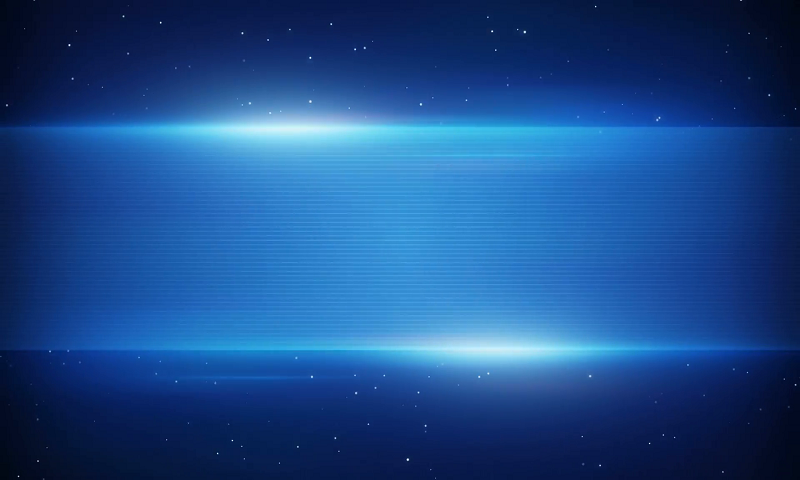
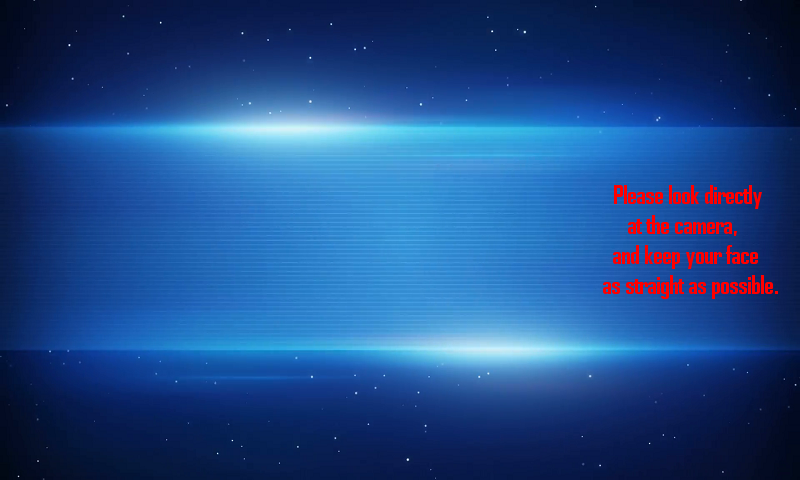
Added Dispense Screen - And done some QQQQQQQQQQUIIIIIIIIIIICKKKKKK FIXs

Changed region(s): [[0.75, 0.375, 0.9688, 0.625]]

diff --git a/rational_gui/verificationScreen.py b/rational_gui/verificationScreen.py
@@ -17,7 +17,7 @@ class VerificationScreen(Page):
         self.grid()
 
         verificationBg = tk.PhotoImage(file=get_imagepath("verificationBg"))
-        face_outline = tk.PhotoImage(file=get_imagepath("positionFace"))
+        face_outline = tk.PhotoImage(file=get_imagepath("examplePosition"))
         placeholder = tk.PhotoImage(file=get_imagepath("placeholder"))
         instructions = tk.PhotoImage(file=get_imagepath("plspositionboi"))
         
@@ -31,7 +31,7 @@ class VerificationScreen(Page):
         #face guidance image
         place_face_here = tk.Label(self, image=face_outline, borderwidth=0)
         place_face_here.image = face_outline
-        place_face_here.place(x=10, y=170)
+        place_face_here.place(x=20, y=200)
 
         #picam placeholder image
         placeholder_lbl = tk.Label(self, image=placeholder, borderwidth=0)
@@ -39,9 +39,9 @@ class VerificationScreen(Page):
         placeholder_lbl.place(x=304, y=170)
 
         #instructions image
-        instructions_lbl = tk.Label(self, image=instructions, borderwidth=0)
-        instructions_lbl.image = instructions
-        instructions_lbl.place(x=510, y=200)
+        #instructions_lbl = tk.Label(self, image=instructions, borderwidth=0)
+        #instructions_lbl.image = instructions
+        #instructions_lbl.place(x=510, y=200)
 
         #take photo image
         try:

diff --git a/test_gui.py b/test_gui.py
@@ -1,13 +1,14 @@
 '''A temporary file for testing the gui(since package relative paths are dodge)'''
 import tkinter as tk
 
-from rational_gui import verificationScreen, hudScreen, lockedScreen, fingerprintScreen, refillScreen, adminScreen
+from rational_gui import verificationScreen, hudScreen, lockedScreen, fingerprintScreen, refillScreen, adminScreen, dispenseScreen
 from rational_gui.controller import CONTROLLER
 
 CONTROLLER.add_page(verificationScreen.VerificationScreen)
 CONTROLLER.add_page(hudScreen.HudScreen)
 CONTROLLER.add_page(lockedScreen.LockedScreen)
 CONTROLLER.add_page(refillScreen.RefillScreen)
+CONTROLLER.add_page(dispenseScreen.DispenseScreen)
 try:
     CONTROLLER.add_page(fingerprintScreen.FingerprintScreen)
     CONTROLLER.add_page(adminScreen.AdminScreen)

diff --git a/rational_gui/dispenseScreen.py b/rational_gui/dispenseScreen.py
@@ -1,0 +1,27 @@
+import tkinter as tk
+
+from rational_gui.controller import CONTROLLER
+from rational_gui.images import get_imagepath
+from rational_gui.page import Page
+
+#dispense screen class
+class DispenseScreen(Page):
+    def __init__(self, parent):
+        #setup things
+        super().__init__(parent)
+
+        dispenseBg = tk.PhotoImage(file=get_imagepath("dispenseScreen"))
+        #lockedButton = tk.PhotoImage(file=get_imagepath("unlockTest"))
+
+        self.width = 800
+        self.height = 480
+        self.grid()
+
+        #background things
+        bg_lbl = tk.Label(self, image=dispenseBg)
+        bg_lbl.image = dispenseBg
+        bg_lbl.place(x=-2, y=-2)
+
+       
+        
+        print("Dispense Screen Initialised")

diff --git a/rational_gui/hudScreen.py b/rational_gui/hudScreen.py
@@ -49,7 +49,7 @@ class HudScreen(Page):
 
         #dispense button stuff
         realCracker = realCracker.subsample(4, 4)
-        dispense_button = tk.Button(self, image=realCracker, bg="black", activebackground="black", fg="white")
+        dispense_button = tk.Button(self, image=realCracker, bg="black", command=lambda: CONTROLLER.show_page("DispenseScreen"), activebackground="black", fg="white")
         dispense_button.image = realCracker
         dispense_button.place(x=370, y=245)
 
